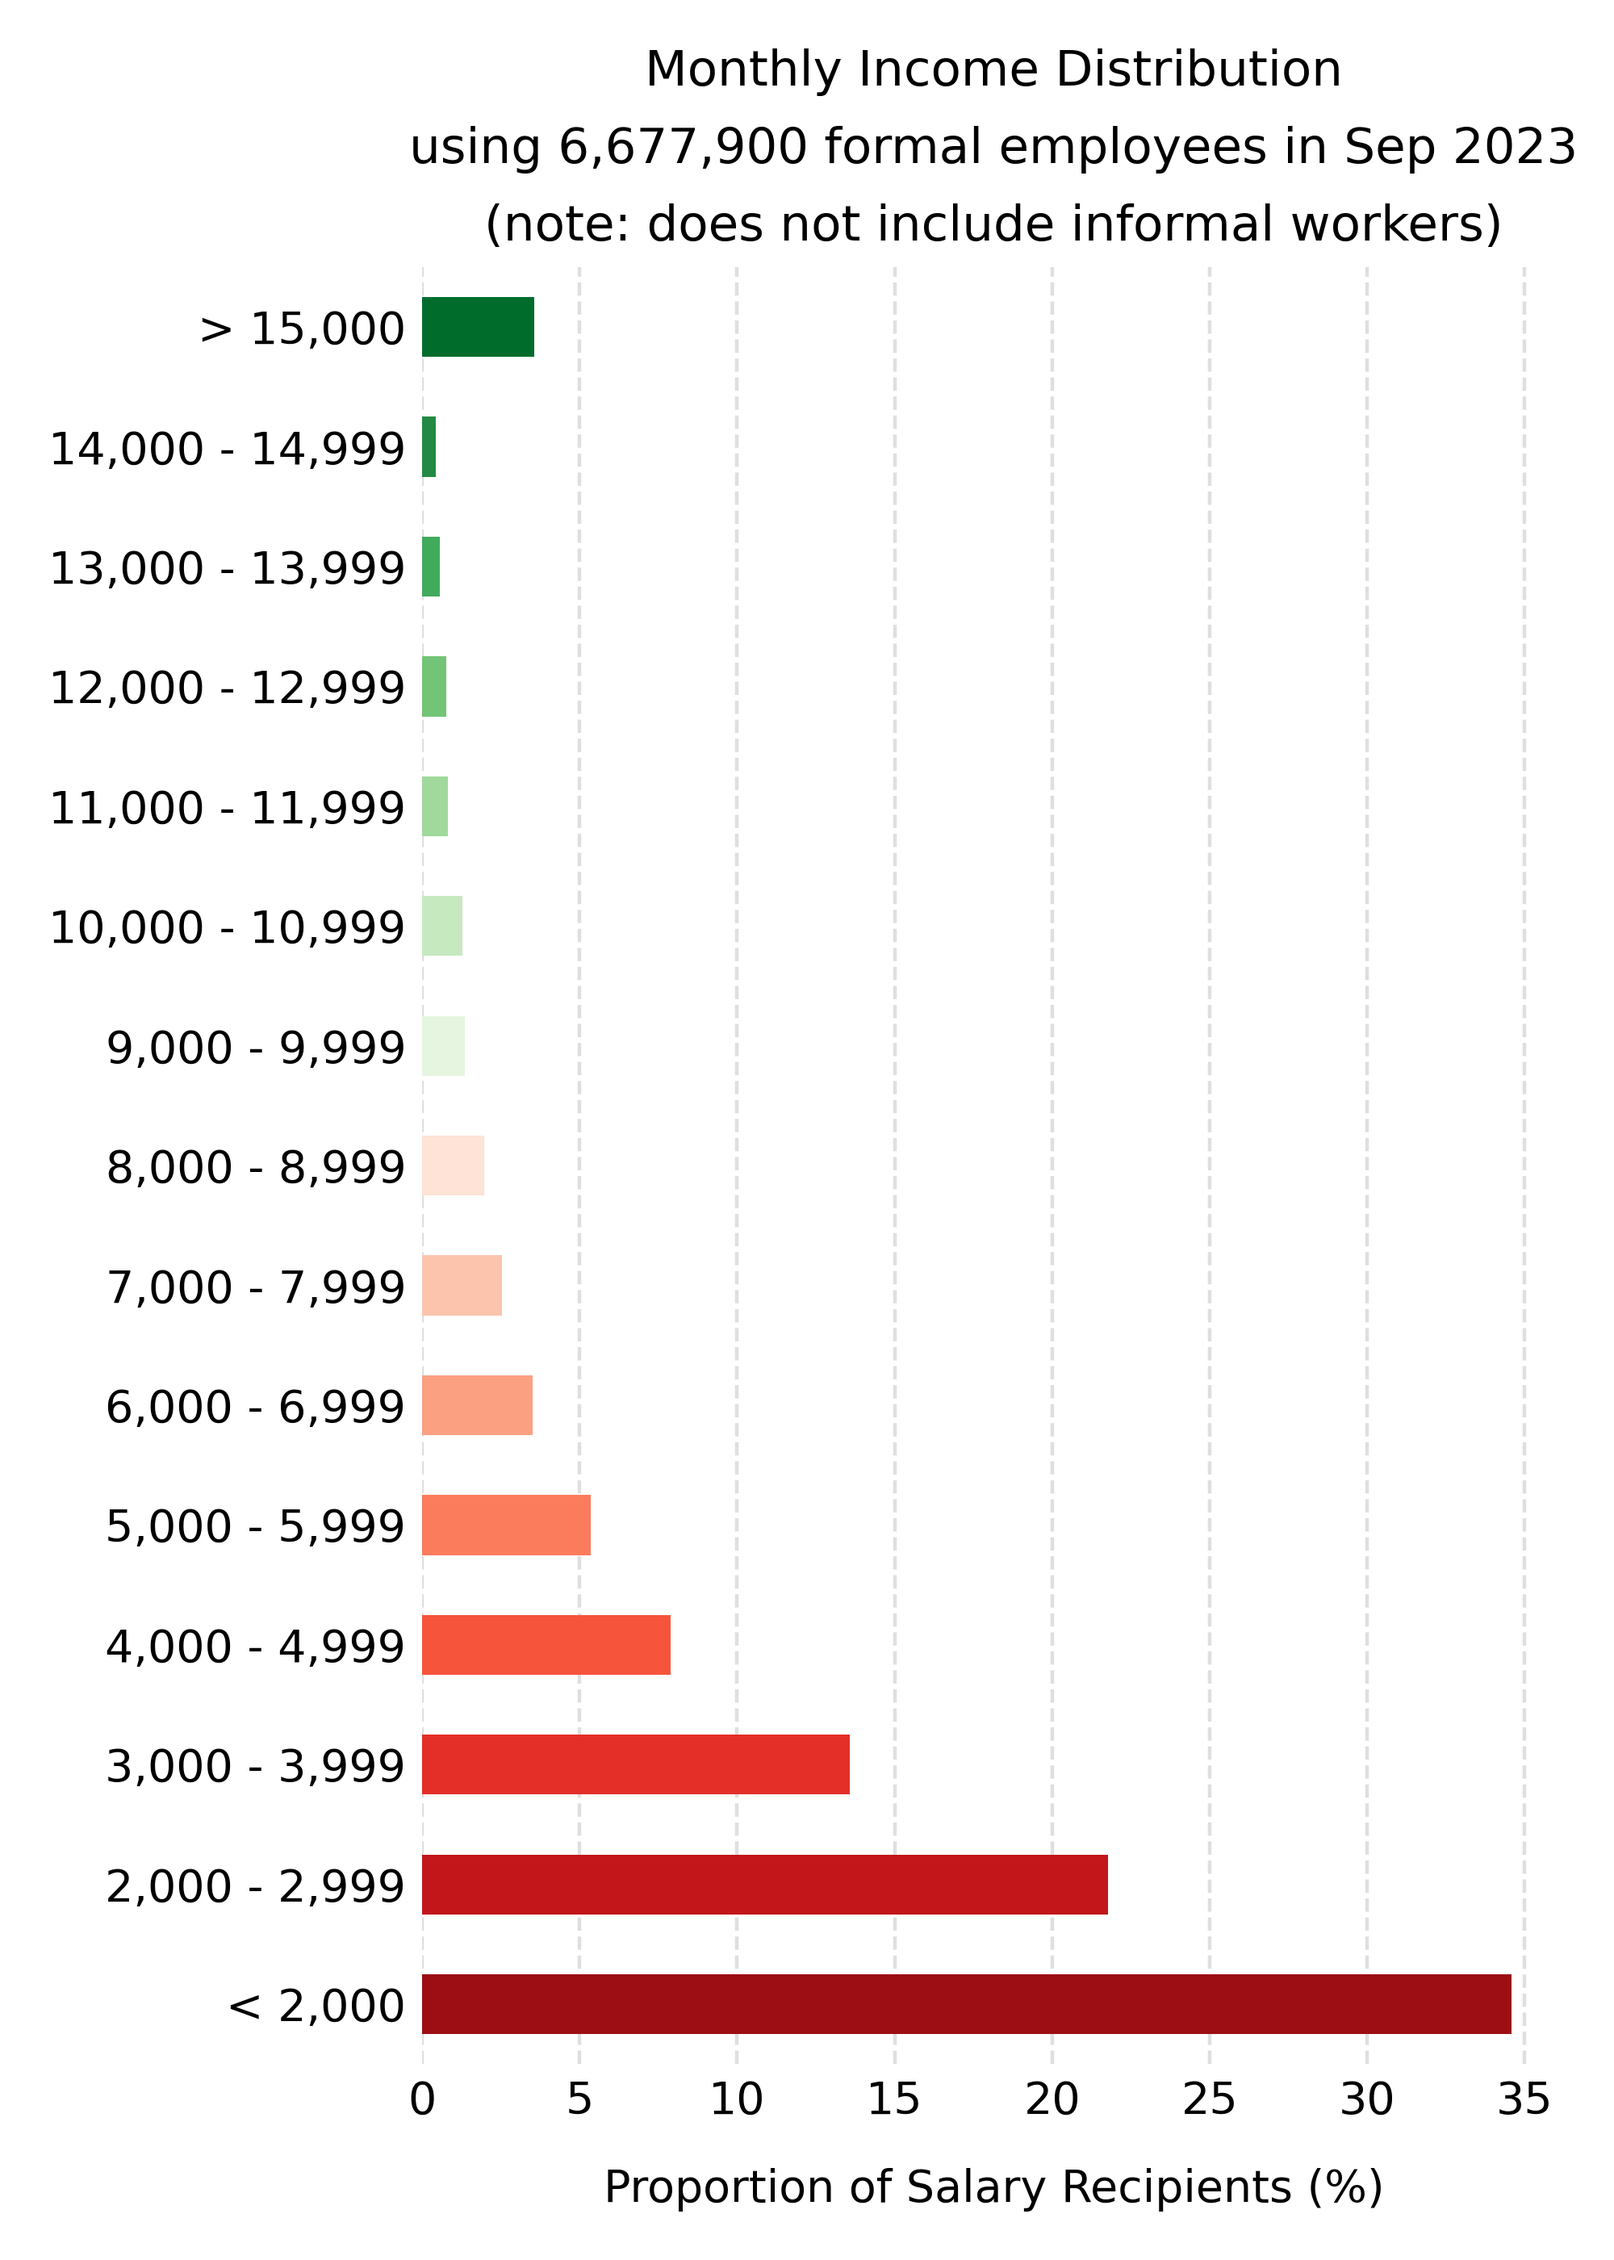
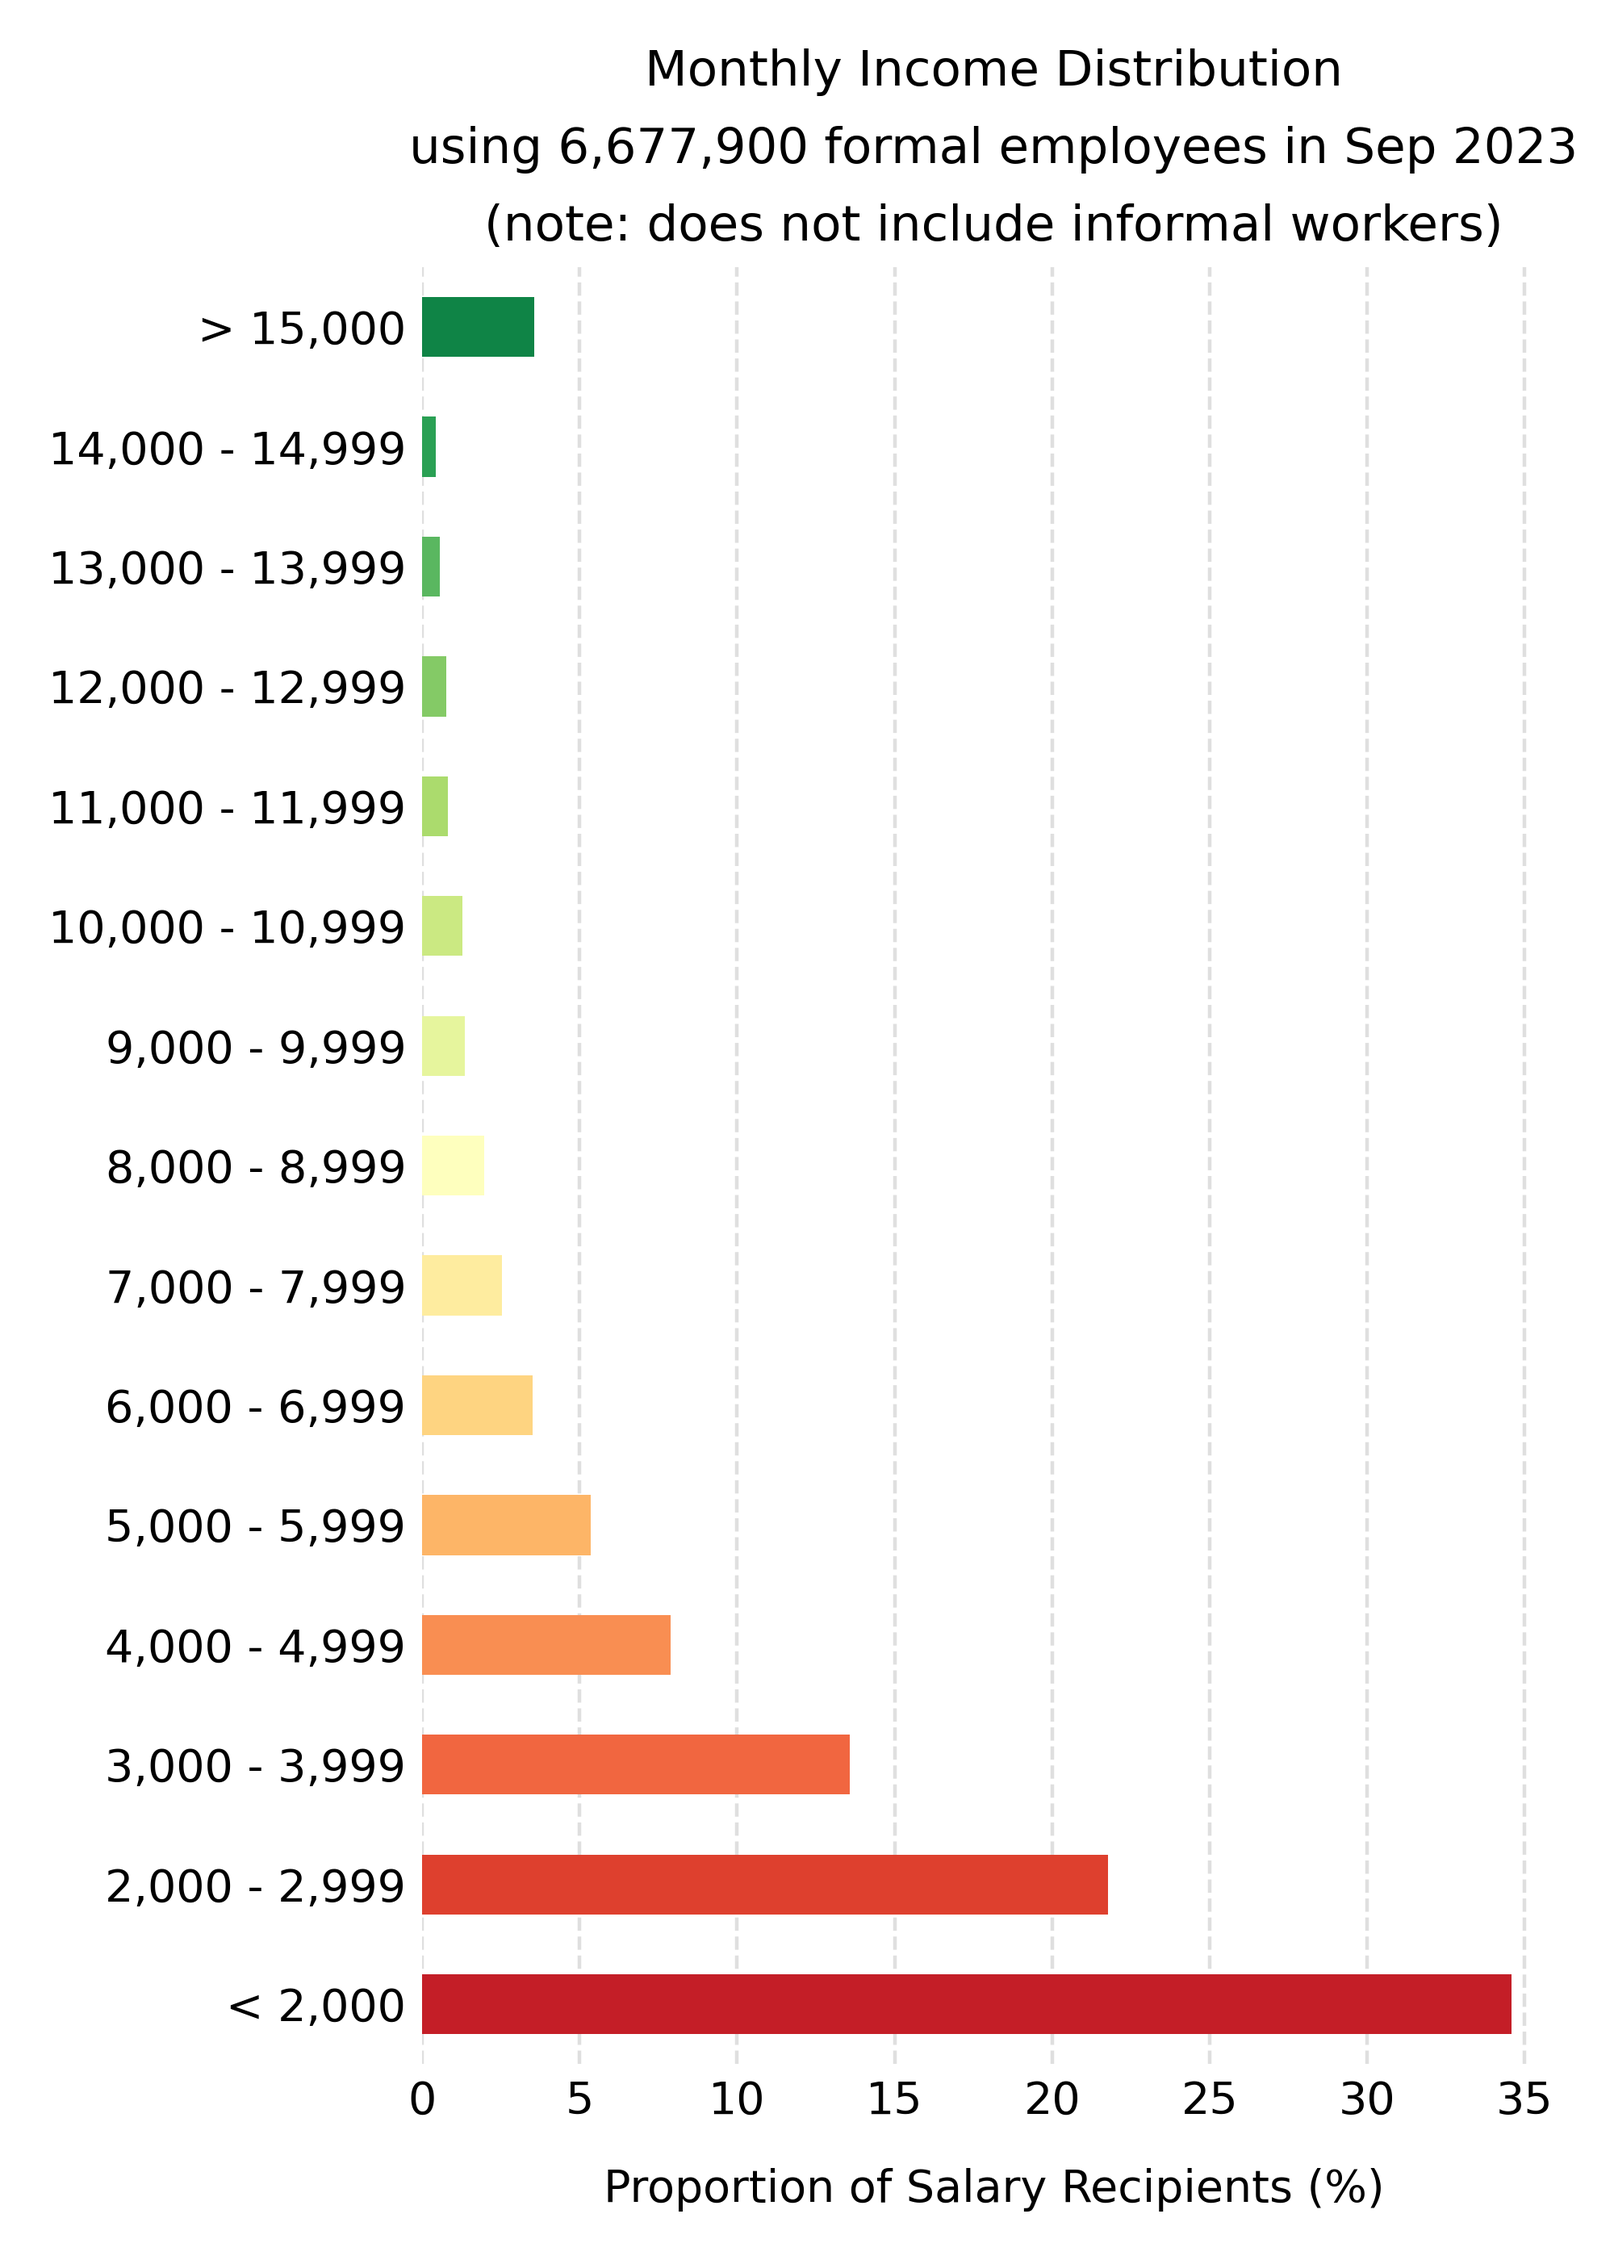
Fix: Simplify colourmap

Changed region(s): [[0.248, 0.3418, 0.961, 0.9011], [0.248, 0.1243, 0.341, 0.1554], [0.248, 0.2175, 0.279, 0.2796]]

diff --git a/2024-05-01_income_distributions/script.py b/2024-05-01_income_distributions/script.py
@@ -8,23 +8,13 @@ import matplotlib.ticker as tkr
 
 def plot_distribution(
         df = None,
-        COLOUR_UP = 'Greens',
-        COLOUR_DOWN = 'Reds_r',
+        CMAP = 'RdYlGn',
         TITLE_VAR = 'Income',
         TITLE_SCOPE = None, N_TOTAL = None,
         TITLE_CAVEAT = None,
         X_LABEL = '',
         SAVE_AS = ''
 ):
-    if len(df)%2 == 0:
-        col_up = sb.color_palette(COLOUR_UP, n_colors=int(len(df)/2)).as_hex()
-        col_down = sb.color_palette(COLOUR_DOWN, n_colors=int(len(df)/2)).as_hex()
-        SPLIT = int(len(df)/2)
-    else:
-        col_up = sb.color_palette(COLOUR_UP, n_colors=int(len(df)/2)).as_hex()
-        col_down = sb.color_palette(COLOUR_DOWN, n_colors=int(len(df)/2)+1).as_hex()
-        SPLIT = int(len(df)/2) + 1
-
     # plot chart
     plt.rcParams.update({'font.size': 10,
                         'font.family': 'sans-serif',
@@ -33,18 +23,15 @@ def plot_distribution(
     plt.rcParams["figure.autolayout"] = True
     fig, ax = plt.subplots()
 
-    df.plot(kind='barh', y=['n'], edgecolor='black', lw=0, ax=ax, legend=False)
-
-    # custom bar colours
-    for i, bar in enumerate(ax.patches):
-        if i < SPLIT: bar.set_color(col_down[i])
-        else: bar.set_color(col_up[i-SPLIT])
+    colourmap = sb.color_palette(CMAP, n_colors=len(df)).as_hex()
+    df.plot(kind='barh', y='n', edgecolor='black', lw=0, ax=ax, color=colourmap)
 
     # plot-wide adjustments
     ax.set_title(f'Monthly {TITLE_VAR} Distribution\nusing {N_TOTAL:,.0f} {TITLE_SCOPE}\n{TITLE_CAVEAT}',linespacing=1.8, fontsize=11)
     for b in ['top','right','left','bottom']: ax.spines[b].set_visible(False)
     ax.tick_params(axis=u'both', which=u'both',length=0)
     ax.set_axisbelow(True)
+    ax.get_legend().remove()
 
     # y-axis adjustments
     ax.set_ylabel('')
@@ -98,7 +85,7 @@ if __name__ == '__main__':
     df.index = ['< 1,000'] + [f'{x*1e3:,.0f} - {(x+1)*1e3-1:,.0f}' for x in range(1,len(df)-1)] + ['> 15,000']
 
     plot_distribution(df=df,
-                    COLOUR_UP = 'Blues',
+                    CMAP = 'RdBu',
                     TITLE_SCOPE = 'LHDN filings in 2022', N_TOTAL=FILINGS,
                     TITLE_CAVEAT = '(note: filings with income = 0 excluded)',
                     X_LABEL = 'Proportion of Tax Filings (%)',
